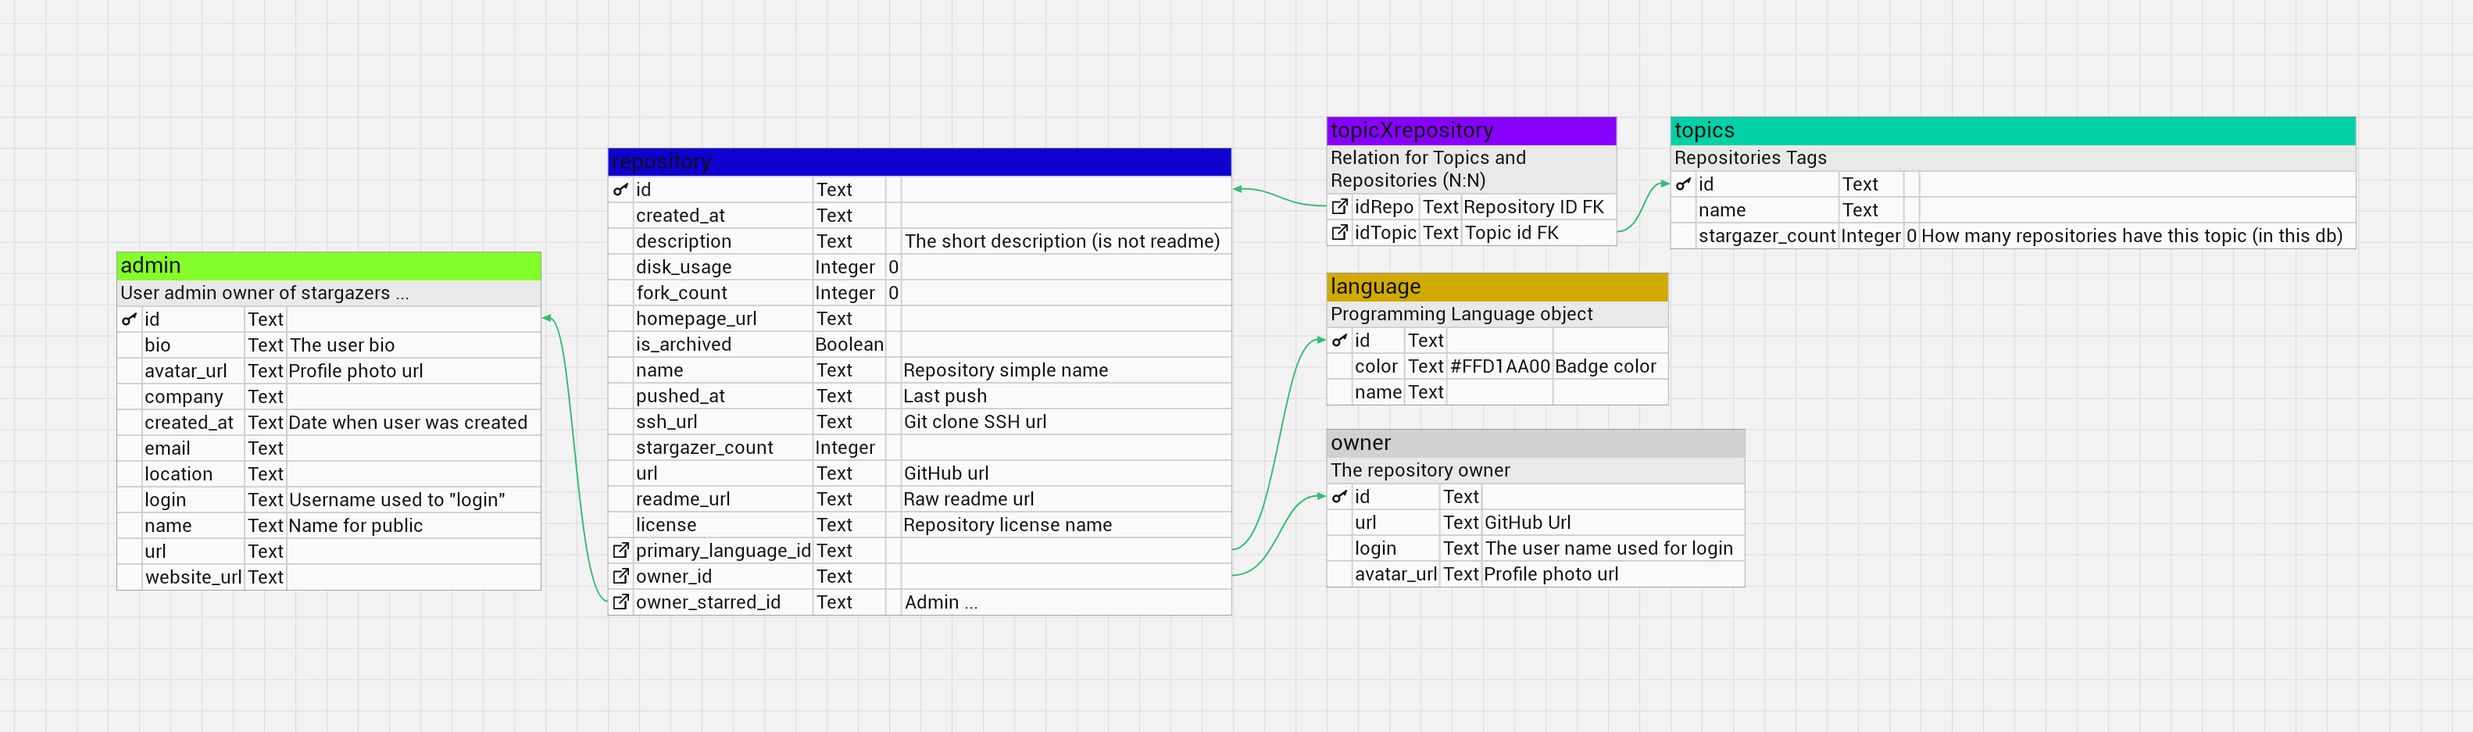
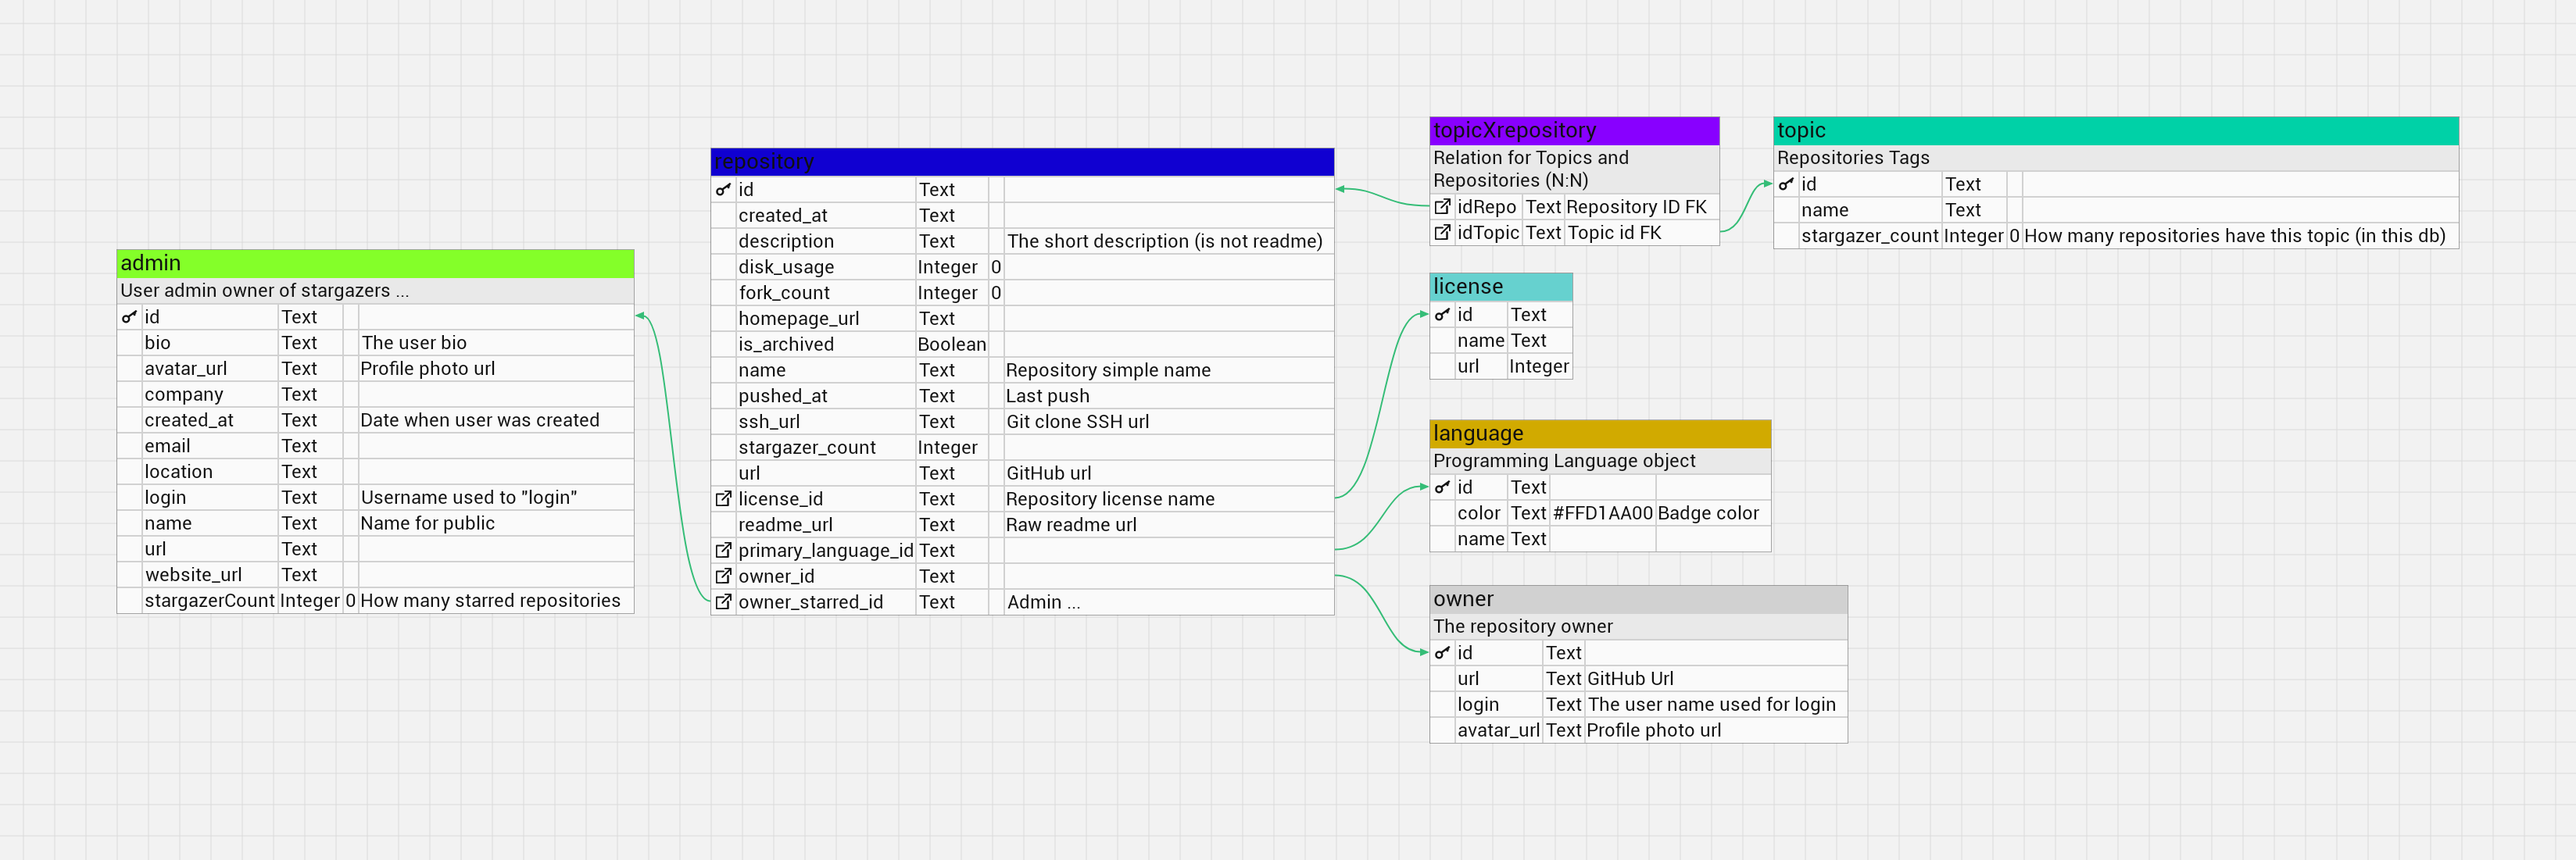
dev: Update sql tables and models image

Changed region(s): [[0.031, 0.1238, 0.9599, 0.8666]]

diff --git a/app/supabase/query.ts b/app/supabase/query.ts
@@ -96,7 +96,5 @@ async function parseUrlReadme(reponame:string, ownername:string):Promise<string>
     })
     const url = await req.json()
     const rawUrl = url.download_url ?? null
-   // const sv = new GithubService()
-    //const url = await sv.getReadmeData()
     return rawUrl
 }
